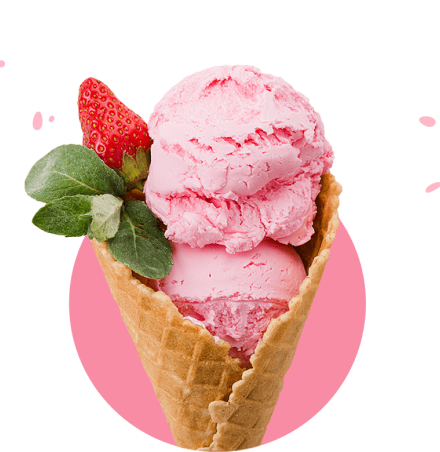
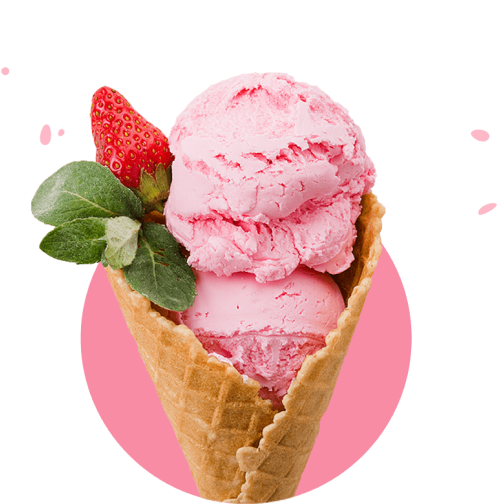
Скорая помощь первой секции, замена картинок, разруливание анимаций и размеров

diff --git a/src/sass/_01section-products.scss b/src/sass/_01section-products.scss
@@ -1,5 +1,5 @@
 .products__container {
-  padding-top: 128px;
+  padding-top: 121px;
   padding-bottom: 98px;
   width: auto;
   max-width: 480px;
@@ -7,10 +7,28 @@
 
 .products__first-title {
   margin-bottom: 15px;
+
+  transform: translate(0px, 120%);
+  opacity: 0;
+  transition: all 0.8s ease 0s;
+
+  &._active {
+    transform: translate(0px, 0px);
+    opacity: 1;
+  }
 }
 
 .products__second-title {
   margin-bottom: 144px;
+
+  transform: translate(0px, 120%);
+  opacity: 0;
+  transition: all 0.8s ease 0s;
+
+  &._active {
+    transform: translate(0px, 0px);
+    opacity: 1;
+  }
 }
 
 .products-list__item {
@@ -31,11 +49,28 @@
   &:not(:last-child) {
     margin-bottom: 130px;
   }
+
+  transform: scale(0.3) translateY(-220%);
+  opacity: 0;
+  transition: all 0.8s ease 0s;
+
+  &._active {
+    transform: scale(1) translateY(0px);
+    opacity: 1;
+  }
+
+  &:nth-child(2) {
+    transition: all 0.8s ease 0.2s;
+  }
+  &:nth-child(3) {
+    transition: all 0.8s ease 0.4s;
+  }
 }
 
 .products-list__image {
   display: inline-block;
   margin-top: -114px;
+  margin-bottom: 22px;
 }
 
 .products-list__title {
@@ -81,6 +116,7 @@
   border-radius: 50%;
 
   background-color: $polar;
+  transition: all $tt $tf;
 
   &:hover,
   &:focus {
@@ -97,10 +133,12 @@
 @include breakpoint(tablet) {
   .products__container {
     max-width: 970px;
+    padding-top: 122px;
+    padding-bottom: 112px;
   }
 
   .products-list {
-    @include flexbox($jc: space-between, $ai: stretch);
+    @include flexbox($jc: center, $ai: stretch);
   }
 
   .products-list__item {
@@ -110,6 +148,10 @@
       margin-bottom: 0;
     }
   }
+  .products-list__image {
+    margin-bottom: 30px;
+  }
+
   .products__second-title {
     margin-bottom: 150px;
   }
@@ -126,6 +168,8 @@
 
 @include breakpoint(desktop) {
   .products__container {
+    padding-top: 127px;
+    padding-bottom: 119px;
     max-width: 100%;
   }
 
@@ -144,6 +188,7 @@
 
   .products-list__image {
     margin-top: -212px;
+    margin-bottom: 38px;
   }
 
   .products-list__title {
@@ -158,207 +203,3 @@
     line-height: 1.76;
   }
 }
-
-// .products__container {
-//   padding-top: 121px;
-//   padding-bottom: 98px;
-//   width: auto;
-//   max-width: 480px;
-// }
-
-// @media (min-width: 768px) {
-//   .products__container {
-//     margin-top: -78px;
-//     max-width: 970px;
-//     padding: 0 36px;
-//   }
-// }
-
-// @media (min-width: 1200px) {
-//   .products__container {
-//     margin-top: -102px;
-//     max-width: 100%;
-//     padding: 0 115px;
-//   }
-// }
-
-// .products__first-title {
-//   margin-bottom: 15px;
-//   margin-top: 135px;
-
-//   transform: translate(0px, 120%);
-//   opacity: 0;
-//   transition: all 0.8s ease 0s;
-
-//   &._active {
-//     transform: translate(0px, 0px);
-//     opacity: 1;
-//   }
-// }
-
-// .products__second-title {
-//   //   margin-bottom: 144px;
-//   margin-bottom: 174px;
-//   transform: translate(0px, 120%);
-//   opacity: 0;
-//   transition: all 0.8s ease 0s;
-
-//   &._active {
-//     transform: translate(0px, 0px);
-//     opacity: 1;
-//   }
-// }
-
-// .products-list__item {
-//   text-align: center;
-//   //   padding-bottom: 54px;
-//   border-radius: 24px;
-//   padding: 48px 28px;
-//   &:nth-child(1) {
-//     background-color: $ice-cream;
-//   }
-
-//   &:nth-child(2) {
-//     background-color: $ice-coffee;
-//   }
-//   &:nth-child(3) {
-//     background-color: $milk-shake;
-//   }
-
-//   @media (max-width: 767px) {
-//     &:not(:last-child) {
-//       margin-bottom: 230px;
-//     }
-//   }
-
-//   transform: scale(0.3) translateY(-120%);
-//   opacity: 0;
-//   transition: all 0.8s ease 0s;
-
-//   &._active {
-//     transform: scale(1) translateY(0px);
-//     opacity: 1;
-//   }
-// }
-
-// @media (max-width: 1199px) and (min-width: 768px) {
-//   .products-list {
-//     display: flex;
-//     // justify-content: normal;
-//     // align-items: normal;
-//     flex-wrap: wrap;
-//   }
-// }
-
-// @media (min-width: 1200px) {
-//   .products-list {
-//     display: flex;
-//     flex-wrap: wrap;
-//   }
-// }
-
-// @media (max-width: 1199px) and (min-width: 768px) {
-//   .products-list__item {
-//     width: calc((100% - 30px * 2) / 3);
-//     padding: 52px 44px 61px;
-//   }
-// }
-// @media (min-width: 1200px) {
-//   .products-list__item:not(:last-child) {
-//     margin-right: 30px;
-//   }
-// }
-
-// @media screen and (max-width: 1199px) and (min-width: 768px) {
-//   .products-list__item:not(:last-child) {
-//     margin-right: 20px;
-//   }
-// }
-
-// @media (min-width: 1200px) {
-//   .products-list__item {
-//     width: calc((100% - 30px * 2) / 3);
-//     padding: 48px 22px;
-//   }
-// }
-
-// .products-list__image {
-//   display: inline-block;
-//   //   margin-top: -114px;
-//   margin-top: -200px;
-// }
-
-// @media screen and (max-width: 1199px) and (min-width: 768px) {
-//   .products-list__image {
-//     margin-top: -145px;
-//   }
-// }
-
-// .products-list__title {
-//   font-family: Titan One;
-//   font-size: 20px;
-//   line-height: 1.15;
-//   margin-top: 22px;
-//   margin-bottom: 30px;
-//   letter-spacing: 0.04em;
-//   text-transform: uppercase;
-
-//   color: $polar;
-// }
-
-// .products-list__dots {
-//   color: $polar;
-//   font-size: 35px;
-//   font-weight: 700;
-//   line-height: 1;
-//   margin-bottom: 30px;
-// }
-
-// .products-list__content {
-//   //   max-width: 200px;
-//   margin: 0 auto 30px;
-//   padding: 0 40px;
-
-//   font-family: DM Sans;
-//   font-weight: 700;
-//   font-size: 14px;
-//   line-height: 1.52;
-
-//   letter-spacing: 0.04em;
-
-//   color: $polar;
-// }
-
-// .products-list__button {
-//   @include flexbox;
-//   margin: 0 auto;
-//   width: 40px;
-//   height: 40px;
-//   border: transparent;
-//   border-radius: 50%;
-
-//   background-color: $polar;
-
-//   &:hover,
-//   &:focus {
-//     background-color: $btn2-hover;
-//   }
-// }
-
-// .products-list__icon {
-//   fill: $main;
-// }
-
-// @include breakpoint(tablet) {
-//   .products__container {
-//     padding-top: 122px;
-//     padding-bottom: 112px;
-//   }
-// }
-
-// @include breakpoint(desktop) {
-//   .products__container {
-//     padding-top: 127px;
-//     padding-bottom: 119px;
-//   }
-// }
